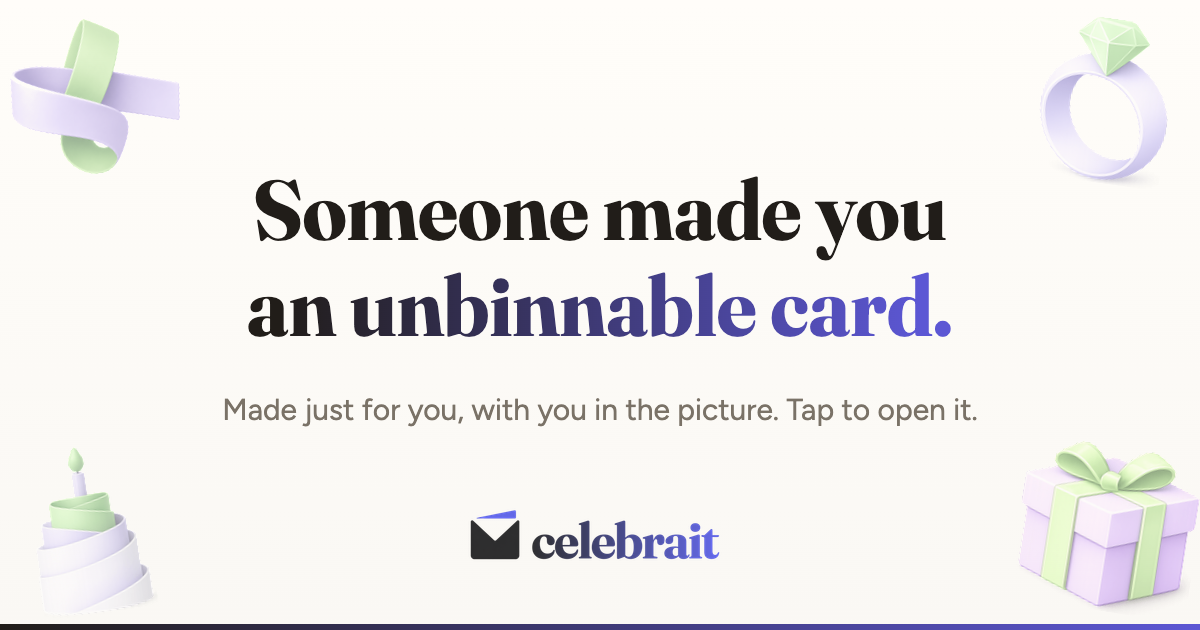
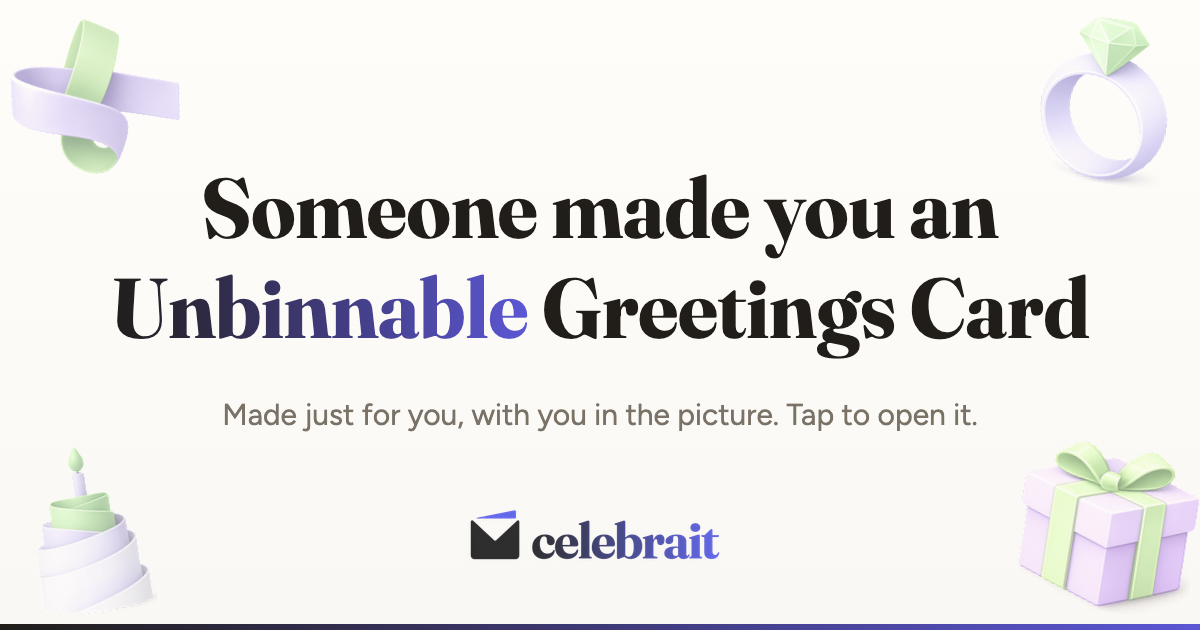
OG share image v2: "Unbinnable Greetings Card", gradient on the one word
Aidan's revision: stacked as "Someone made you an" / "Unbinnable
Greetings Card", with ONLY "Unbinnable" carrying the ink-to-violet ramp
-- the brand word does the work, the rest stays ink. Line two is drawn
as a measured unit (gradient run + ink run) so the mixed fills still
centre correctly.

?v=2 on the og:image URL so WhatsApp's per-URL preview cache refetches
instead of serving yesterday's image forever. alt text updated to match.

Changed region(s): [[0.0925, 0.4222, 0.925, 0.573], [0.1542, 0.2714, 0.8325, 0.4222], [0.185, 0.6333, 0.8017, 0.6937]]

diff --git a/server/seo-inject.ts b/server/seo-inject.ts
@@ -42,9 +42,9 @@ const SHARE_OG = {
   title: 'Someone made you a card',
   description:
     "A personalised card, made just for you — you're in the picture. Tap to open it.",
-  image: `${SITE_ORIGIN}/og-share-card.png?v=1`,
+  image: `${SITE_ORIGIN}/og-share-card.png?v=2`,
   imageAlt:
-    'Someone made you an unbinnable card — Celebrait',
+    'Someone made you an Unbinnable Greetings Card — Celebrait',
 };
 
 function isShareLinkPath(p: string): boolean {
